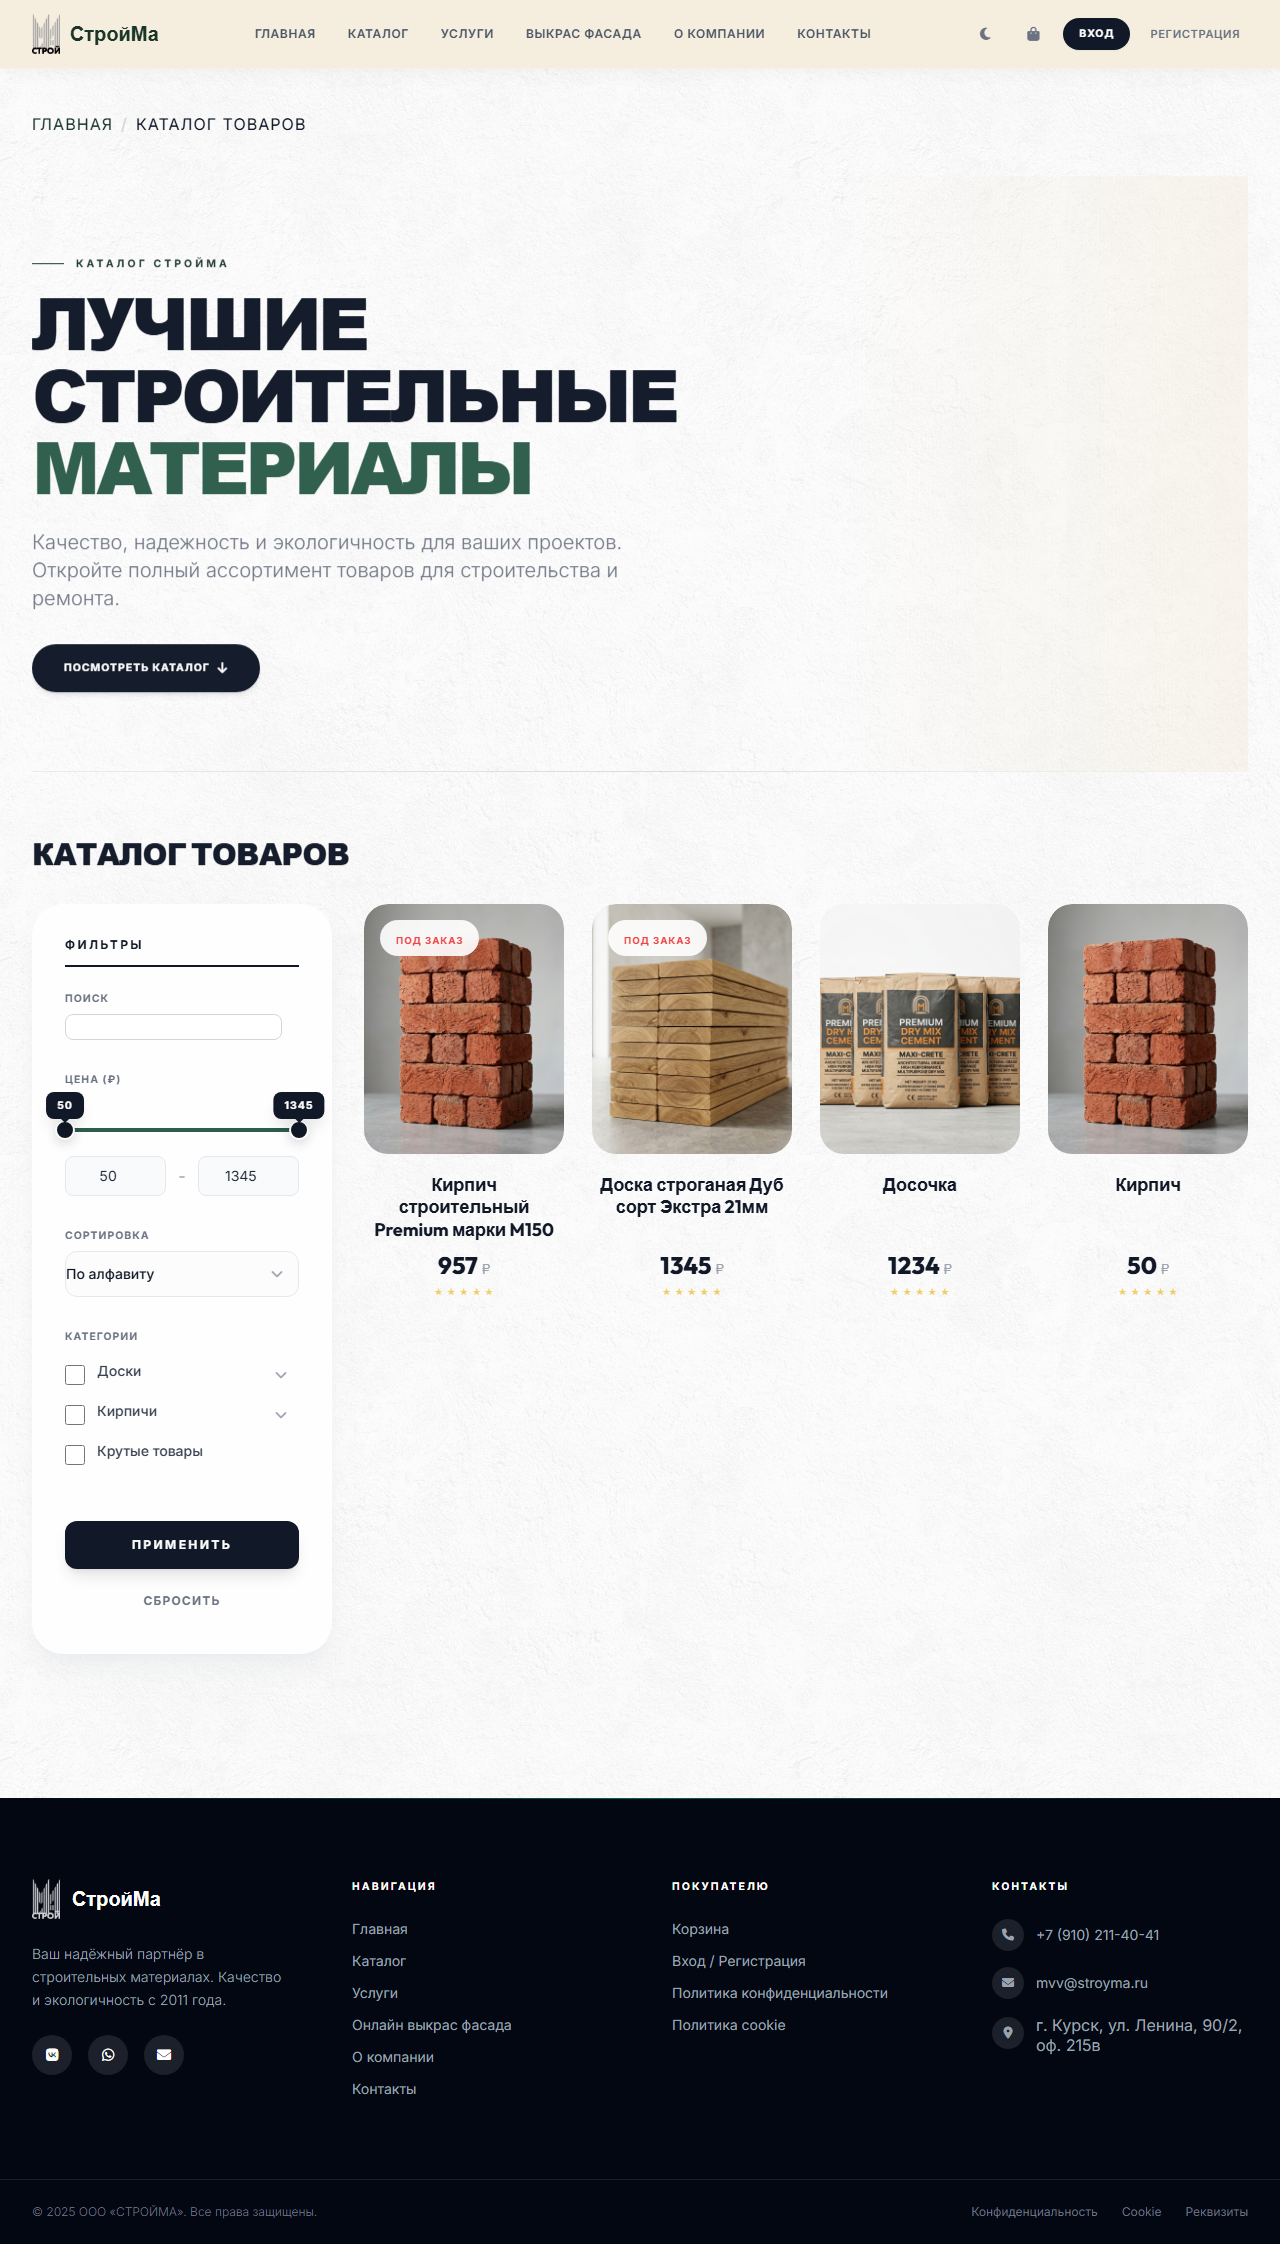
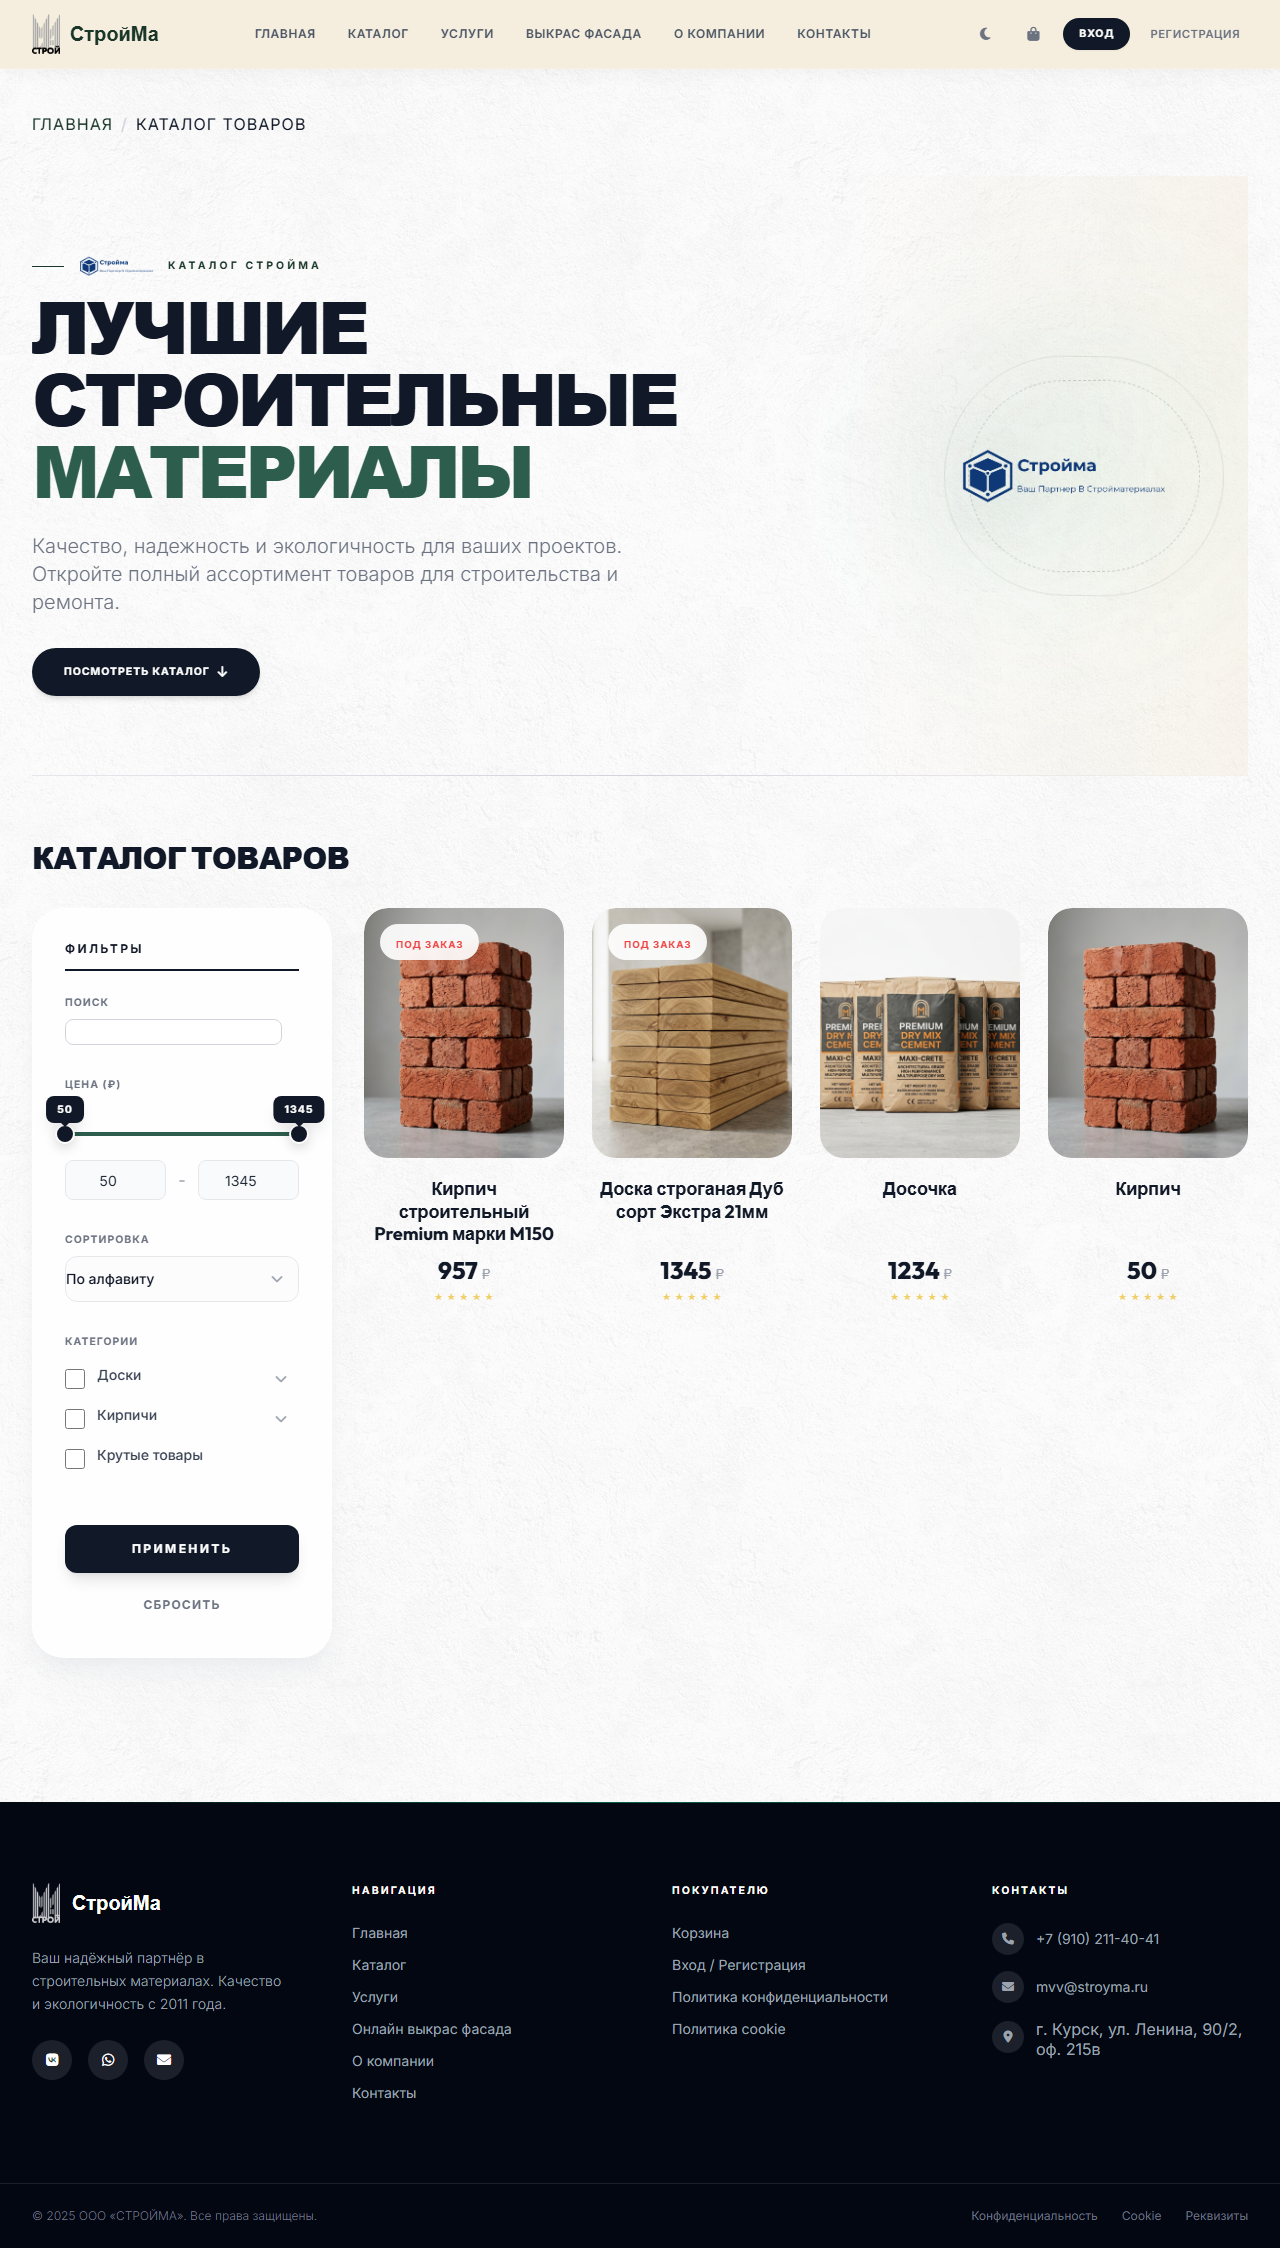
Добавление  нового лого и фикрч добавления в корзину

diff --git a/products/templates/products/product_list.html b/products/templates/products/product_list.html
@@ -1,4 +1,5 @@
 {% extends 'products/base.html' %}
+{% load static %}
 {% block content %}
 
 <!-- Хлебные крошки -->
@@ -10,10 +11,12 @@
 
 <!-- Hero-Баннер -->
 <section class="relative mb-10 md:mb-16 animate-fade-in overflow-hidden">
-    <div class="relative z-10 py-10 md:py-16 lg:py-20">
+    <div class="relative z-10 py-10 md:py-16 lg:py-20 grid lg:grid-cols-[minmax(0,1fr)_auto] gap-10 items-center">
         <div class="max-w-4xl">
             <p class="text-[0.65rem] font-bold uppercase tracking-[0.3em] text-deep-green dark:text-emerald-400 mb-4 flex items-center gap-3">
-                <span class="w-8 h-px bg-deep-green dark:bg-emerald-400"></span> Каталог СтройМа
+                <span class="w-8 h-px bg-deep-green dark:bg-emerald-400"></span>
+                <img src="{% static 'images/logo_hero.png' %}" alt="Логотип СтройМа" class="h-7 w-auto object-contain -my-1" loading="lazy">
+                Каталог СтройМа
             </p>
             <h2 class="text-4xl md:text-5xl lg:text-7xl font-black font-display text-gray-900 dark:text-white leading-[1.05] tracking-tighter uppercase mb-6" style="font-size:clamp(2.5rem,8vw,4.5rem)">
                 Лучшие<br>строительные<br><span style="color:#2D5D4C">материалы</span>
@@ -25,8 +28,32 @@
                 Посмотреть каталог <i class="fas fa-arrow-down group-hover:translate-y-0.5 transition-transform text-xs"></i>
             </a>
         </div>
+
+        <!-- Декоративный логотип-локап СтройМа -->
+        <div class="hidden lg:flex relative items-center justify-center pr-2 xl:pr-6 select-none" aria-hidden="true">
+            <div class="absolute inset-0 bg-gradient-to-br from-deep-green/15 via-emerald-400/10 to-sandy/30 dark:from-emerald-400/15 dark:via-emerald-500/10 dark:to-gray-700/20 rounded-full blur-3xl animate-hero-glow"></div>
+            <div class="absolute inset-4 rounded-full border border-deep-green/10 dark:border-emerald-400/10 animate-[spin_40s_linear_infinite]"></div>
+            <div class="absolute inset-10 rounded-full border border-dashed border-deep-green/20 dark:border-emerald-400/20 animate-[spin_60s_linear_infinite_reverse]"></div>
+            <div class="relative z-10 animate-hero-float flex flex-col items-center gap-3 xl:gap-4">
+                <img src="{% static 'images/logo_hero.png' %}"
+                     alt="Логотип СтройМа"
+                     class="w-80 xl:w-[26rem] 2xl:w-[30rem] h-auto object-contain drop-shadow-[0_25px_45px_rgba(45,93,76,0.28)] dark:drop-shadow-[0_25px_45px_rgba(52,211,153,0.22)] transition-transform duration-700 ease-out hover:scale-[1.03]"
+                     loading="lazy" decoding="async">
+                <div class="flex flex-col items-center -mt-4 xl:-mt-6">
+                    <span class="font-black tracking-tight text-deep-green dark:text-emerald-400 leading-none"
+                          style="font-size:clamp(2.4rem,4vw,3.75rem); letter-spacing:-0.02em">
+                        СтройМа
+                    </span>
+                    <span class="mt-2 flex items-center gap-3 text-[0.6rem] xl:text-[0.7rem] font-bold uppercase tracking-[0.35em] text-gray-500 dark:text-gray-400">
+                        <span class="w-4 h-px bg-gray-400/60 dark:bg-gray-500/60"></span>
+                        Строительные материалы
+                        <span class="w-4 h-px bg-gray-400/60 dark:bg-gray-500/60"></span>
+                    </span>
+                </div>
+            </div>
+        </div>
     </div>
-    <!-- Декоративный элемент -->
+    <!-- Декоративный фон -->
     <div class="absolute top-0 right-0 w-1/3 h-full bg-gradient-to-l from-sandy/40 to-transparent dark:from-gray-800/30 pointer-events-none hidden lg:block"></div>
     <div class="absolute bottom-0 left-0 right-0 h-px bg-gradient-to-r from-gray-200 via-gray-300 to-transparent dark:from-gray-800 dark:via-gray-700"></div>
 </section>

diff --git a/products/templates/products/search_results.html b/products/templates/products/search_results.html
@@ -2,28 +2,30 @@
     {% for product in products %}
     <div class="group relative bg-transparent rounded-3xl overflow-hidden flex flex-col transition-all duration-500 hover:shadow-2xl hover:-translate-y-2">
         <!-- Изображение товара -->
-        <a href="{% url 'product_detail' slug=product.slug %}" class="relative w-full aspect-[4/5] overflow-hidden bg-white dark:bg-gray-800 rounded-3xl">
-            {% if product.image %}
-            <img src="{{ product.image.url }}" alt="{{ product.name }}" class="w-full h-full object-cover transition-transform duration-[1500ms] ease-out group-hover:scale-110" loading="lazy">
-            {% else %}
-            <div class="w-full h-full flex items-center justify-center bg-gray-50 dark:bg-gray-800">
-                <span class="text-xs uppercase tracking-widest text-gray-300">Нет фото</span>
-            </div>
-            {% endif %}
-            
+        <div class="relative w-full aspect-[4/5] overflow-hidden bg-white dark:bg-gray-800 rounded-3xl">
+            <a href="{% url 'product_detail' slug=product.slug %}" class="block absolute inset-0 z-0">
+                {% if product.image %}
+                <img src="{{ product.image.url }}" alt="{{ product.name }}" class="w-full h-full object-cover transition-transform duration-[1500ms] ease-out group-hover:scale-110" loading="lazy">
+                {% else %}
+                <div class="w-full h-full flex items-center justify-center bg-gray-50 dark:bg-gray-800">
+                    <span class="text-xs uppercase tracking-widest text-gray-300">Нет фото</span>
+                </div>
+                {% endif %}
+            </a>
+
             <!-- Оверлей при наведении -->
-            <div class="absolute inset-0 bg-black/0 group-hover:bg-black/20 transition-colors duration-500"></div>
-            
+            <div class="absolute inset-0 bg-black/0 group-hover:bg-black/20 transition-colors duration-500 pointer-events-none"></div>
+
             <!-- Бейдж наличия -->
             {% if product.stock == 0 %}
-            <div class="absolute top-4 left-4 bg-white/90 dark:bg-black/90 backdrop-blur-sm px-4 py-1.5 rounded-full z-10">
+            <div class="absolute top-4 left-4 bg-white/90 dark:bg-black/90 backdrop-blur-sm px-4 py-1.5 rounded-full z-10 pointer-events-none">
                 <span class="text-[0.6rem] uppercase tracking-widest font-bold text-red-500">Под заказ</span>
             </div>
             {% endif %}
 
             <!-- Всплывающие кнопки (Glassmorphism Toolbar) -->
             <div class="absolute bottom-4 left-4 right-4 translate-y-12 opacity-0 group-hover:translate-y-0 group-hover:opacity-100 transition-all duration-300 ease-out z-20 flex gap-2">
-                <button onclick="openQuickView({{ product.pk }}); return false;" class="flex-1 bg-white/80 dark:bg-gray-900/80 backdrop-blur-md text-gray-900 dark:text-white border border-white/40 dark:border-white/10 text-[0.65rem] font-bold uppercase tracking-widest py-3 rounded-2xl text-center hover:bg-white dark:hover:bg-gray-900 transition-colors shadow-lg">
+                <button type="button" onclick="openQuickView({{ product.pk }}); return false;" class="flex-1 bg-white/80 dark:bg-gray-900/80 backdrop-blur-md text-gray-900 dark:text-white border border-white/40 dark:border-white/10 text-[0.65rem] font-bold uppercase tracking-widest py-3 rounded-2xl text-center hover:bg-white dark:hover:bg-gray-900 transition-colors shadow-lg">
                     Просм.
                 </button>
                 <form method="post" action="{% url 'add_to_cart' pk=product.pk %}" class="flex-1 ajax-cart-form">
@@ -34,7 +36,7 @@
                     </button>
                 </form>
             </div>
-        </a>
+        </div>
 
         <!-- Содержимое карточки -->
         <div class="pt-5 pb-2 px-1 flex-grow flex flex-col items-center text-center">

diff --git a/static/css/base.css b/static/css/base.css
@@ -235,6 +235,32 @@ button:hover, a.button:hover {
     animation: fadeIn 0.5s ease forwards;
 }
 
+/* Плавающая анимация для hero-логотипа */
+@keyframes heroLogoFloat {
+    0%, 100% { transform: translateY(0) rotate(0deg); }
+    50%      { transform: translateY(-10px) rotate(-1deg); }
+}
+.animate-hero-float {
+    animation: heroLogoFloat 6s ease-in-out infinite;
+    will-change: transform;
+}
+
+/* Пульсирующее свечение за логотипом */
+@keyframes heroGlowPulse {
+    0%, 100% { opacity: 0.55; transform: scale(1); }
+    50%      { opacity: 0.9;  transform: scale(1.08); }
+}
+.animate-hero-glow {
+    animation: heroGlowPulse 5s ease-in-out infinite;
+    will-change: opacity, transform;
+}
+
+/* Отключаем на reduced-motion для доступности */
+@media (prefers-reduced-motion: reduce) {
+    .animate-hero-float,
+    .animate-hero-glow { animation: none; }
+}
+
 /* Модальное окно */
 #quick-view-modal {
     opacity: 0;

diff --git a/products/views.py b/products/views.py
@@ -191,24 +191,46 @@ def quick_view(request, pk):
 
 def add_to_cart(request, pk):
     product = get_object_or_404(Product, pk=pk)
-    quantity = int(request.POST.get('quantity', 1))
+
+    is_ajax = (
+        request.headers.get('x-requested-with') == 'XMLHttpRequest'
+        or 'application/json' in request.headers.get('Accept', '')
+    )
+
+    if request.method != 'POST':
+        if is_ajax:
+            return JsonResponse({'success': False, 'message': 'Метод не разрешён.'}, status=405)
+        return redirect(product.get_absolute_url())
+
+    try:
+        quantity = int(request.POST.get('quantity') or 1)
+    except (TypeError, ValueError):
+        quantity = 1
+    if quantity < 1:
+        quantity = 1
 
     if request.user.is_authenticated:
         cart = get_or_create_cart(request)
         cart_item, created = CartItem.objects.get_or_create(cart=cart, product=product)
         cart_item.quantity = quantity if created else cart_item.quantity + quantity
         cart_item.save()
+        cart_item_count = CartItem.objects.filter(cart=cart).count()
     else:
         cart = request.session.get('cart', {})
-        if str(product.pk) in cart:
-            cart[str(product.pk)] += quantity
-        else:
-            cart[str(product.pk)] = quantity
+        key = str(product.pk)
+        cart[key] = cart.get(key, 0) + quantity
         request.session['cart'] = cart
+        request.session.modified = True
+        cart_item_count = len(cart)
 
-    if request.headers.get('x-requested-with') == 'XMLHttpRequest' or request.headers.get('Accept', '').find('application/json') != -1:
-        return JsonResponse({'success': True, 'message': f'{product.name} успешно добавлен в корзину'})
+    if is_ajax:
+        return JsonResponse({
+            'success': True,
+            'message': f'{product.name} успешно добавлен в корзину',
+            'cart_item_count': cart_item_count,
+        })
 
+    messages.success(request, f'{product.name} добавлен в корзину')
     return redirect('view_cart')
 
 def update_cart(request, pk):
